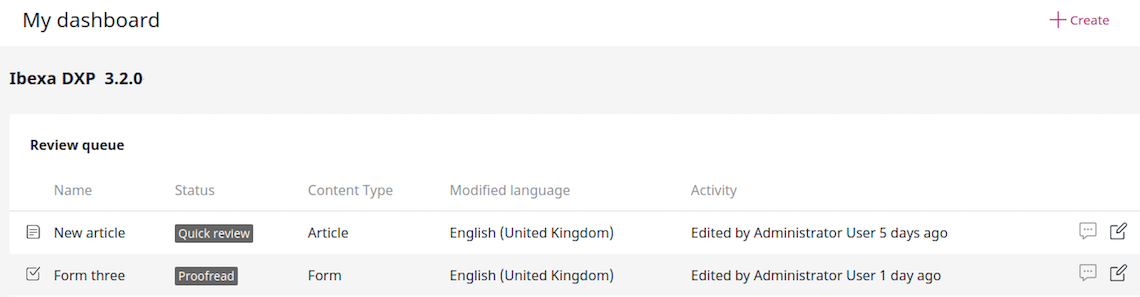
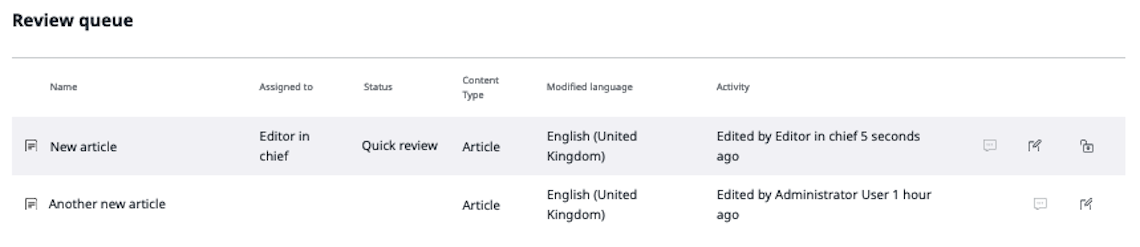
IBX-431: Allowed to lock & unlock drafts in workflow

diff --git a/docs/publishing/editorial_workflow.md b/docs/publishing/editorial_workflow.md
@@ -1,6 +1,6 @@
 # Editorial workflow
 
-Using editorial workflow you can pass content between different stages in a preconfigured flow.
+With editorial workflow you can pass content between different stages in a preconfigured flow.
 Typically, the stages correspond to different teams or departments that contribute to content
 and approve it.
 
@@ -14,25 +14,55 @@ For example, you can pass content through stages of draft, design and proofreadi
     Contact your administrator or developer team to configure workflows.
     See [developer documentation](https://doc.ibexa.co/en/master/guide/workflow/) for information on how to do it.
 
-You can view Content items which are in different stages under review on the **My dashboard** screen, in the Review queue table.
-The table will only show the Content items that you have permissions to edit.
+## Review queue
+
+You can view Content items which are in different stages under review on the 
+**My dashboard** screen, in the Review queue table.
+The table will only show Content items that your Role has permissions to edit.
+If your installation is [configured to support draft locking](https://doc.ibexa.co/en/master/guide/workflow/#draft-locking), the table will 
+also inform you whether any reviewers are assigned and have claimed their drafts 
+for review.
 
 ![Review queue in the dashboard](img/dashboard_review_queue.png)
 
-When you edit a Content item that has been sent for review, you will see the Events timeline.
+In the Review queue table, you can access the draft for editing, review its history, 
+and unlock the draft or request that a lock is released.
 
-It lists all the transitions that this content has gone through.
+## Draft editing
+
+When you click the **Edit draft** icon and open a Content item that has been sent 
+to you for review, you see the Events timeline that lists all the transitions 
+that this content has gone through.
 
 ![Events timeline](img/workflow_events_timeline.png)
 
-You can view all configured workflows in the Admin Panel by selecting **Workflow**.
+If draft locking is supported, you will also see a message that confirms that the draft is now locked to you.
+
+![Draft assignment message](img/lock_message.png)
+
+## Draft lock release
+
+If you are assigned to a draft and have locked it for review, you can release 
+the lock by closing the modal window, publishing the draft, or sending it to 
+another reviewer.
+You can also do it in the Review queue table, by clicking the **Unlock** icon.
+
+If you are not assigned to the draft, depending on the permissions set for your 
+Role, in the Review queue table, you can either release the lock by clicking 
+the **Unlock** icon, or request that the lock is released by the reviewer 
+by clicking the **Request access** icon.
+
+## Workflow list
+
+If you have Administrator permissions, you can view all configured workflows in the Admin Panel by selecting **Workflow**.
 
 ![Workflow in Admin Panel](img/workflow_panel.png)
 
-Here you can also preview a diagram of the workflow.
+You can preview a diagram of the workflow.
 
 ![Workflow diagram](img/workflow_diagram.png)
 
-After selecting configured workflow administrator user is able to see all Content items under review for it.
+You can also select a configured workflow to see all Content items that are under 
+review as part of this workflow.
 
 ![Content under review](img/workflow_content_under_review.png)
